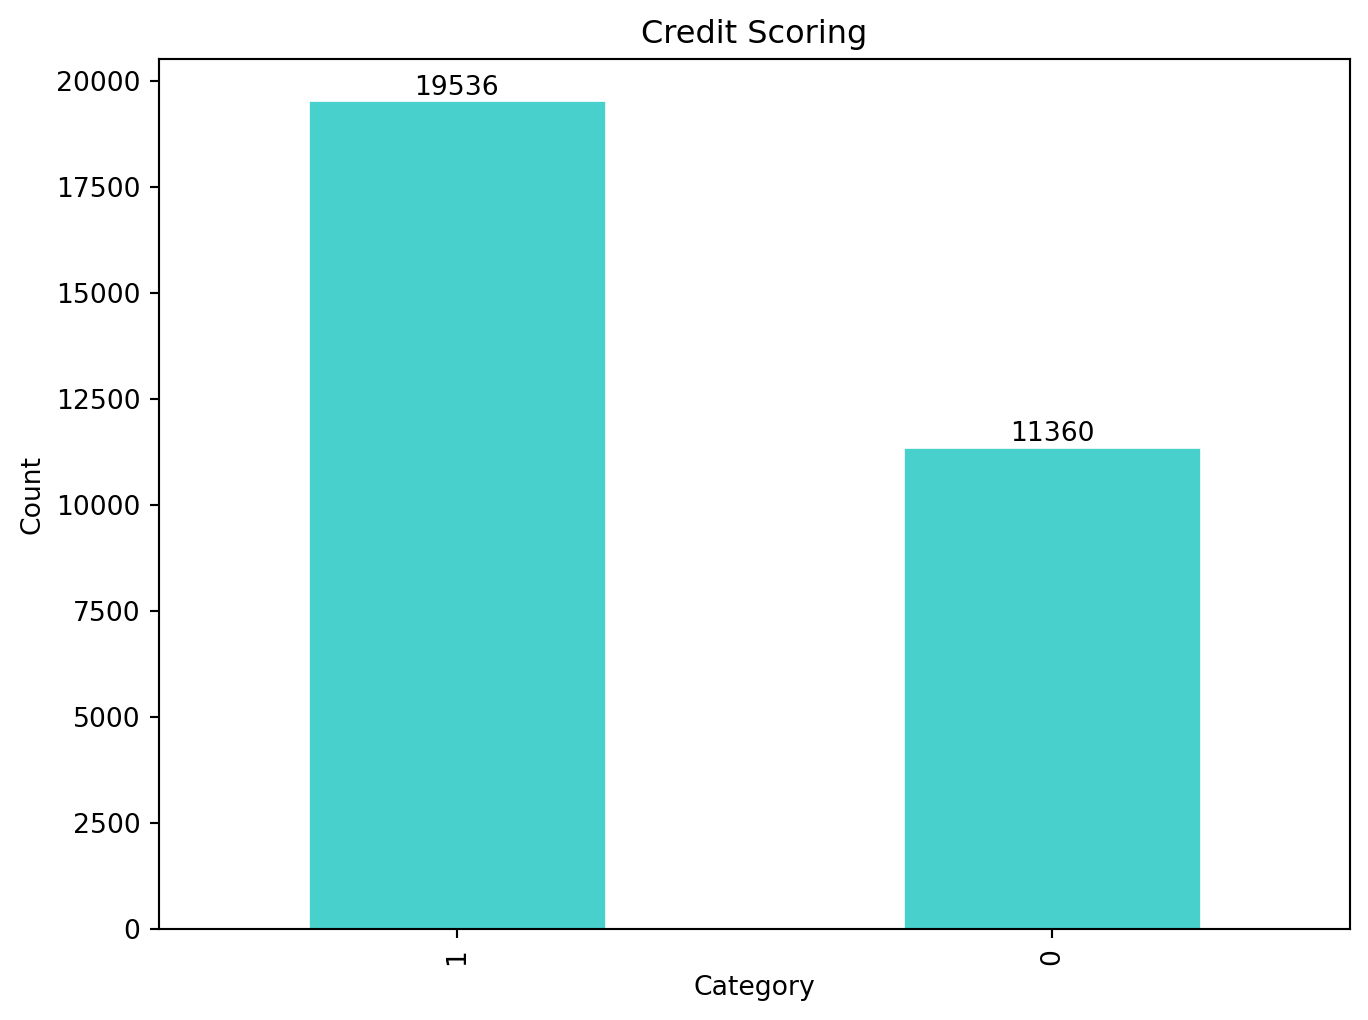
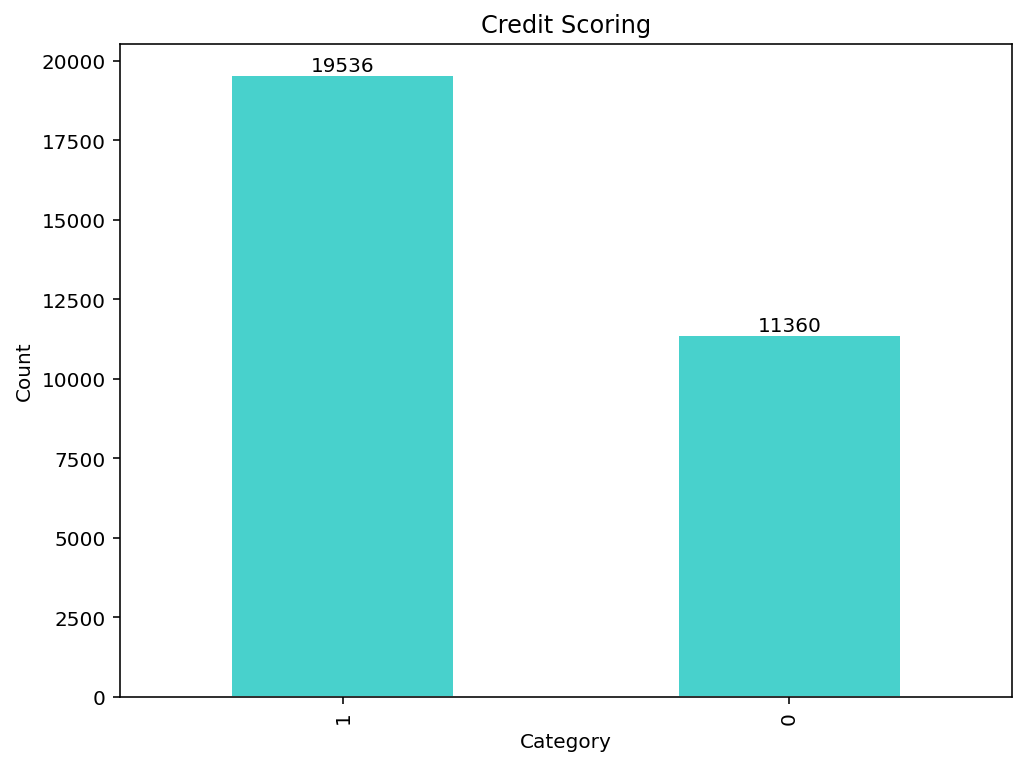
Some minor changes

diff --git a/RRproj.html b/RRproj.html
@@ -6,7 +6,7 @@
 
 <meta name="viewport" content="width=device-width, initial-scale=1.0, user-scalable=yes">
 
-<meta name="author" content="Joachim Ndhokero- 4408804 and Nomin Batbayar - 442627">
+<meta name="author" content="Joachim Ndhokero- 448004 and Nomin Batbayar - 442627">
 <meta name="dcterms.date" content="2023-06-17">
 
 <title>Credit Scoring Classification Analysis</title>
@@ -91,7 +91,7 @@ pre > code.sourceCode > span > a:first-child::before { text-decoration: underlin
       <div>
       <div class="quarto-title-meta-heading">Author</div>
       <div class="quarto-title-meta-contents">
-               <p>Joachim Ndhokero- 4408804 and Nomin Batbayar - 442627 </p>
+               <p>Joachim Ndhokero- 448004 and Nomin Batbayar - 442627 </p>
             </div>
     </div>
       
@@ -218,7 +218,7 @@ pre > code.sourceCode > span > a:first-child::before { text-decoration: underlin
 <div class="cell-output cell-output-stdout">
 <pre><code>(46826, 25)</code></pre>
 </div>
-<div class="cell-output cell-output-display" data-execution_count="34">
+<div class="cell-output cell-output-display" data-execution_count="2">
 <div>
 
 
@@ -406,7 +406,7 @@ pre > code.sourceCode > span > a:first-child::before { text-decoration: underlin
 <span id="cb5-2"><a href="#cb5-2" aria-hidden="true" tabindex="-1"></a>credit_score.isna().<span class="bu">sum</span>()</span>
 <span id="cb5-3"><a href="#cb5-3" aria-hidden="true" tabindex="-1"></a><span class="in">```</span></span></code><button title="Copy to Clipboard" class="code-copy-button"><i class="bi"></i></button></pre></div>
 </details>
-<div class="cell-output cell-output-display" data-execution_count="36">
+<div class="cell-output cell-output-display" data-execution_count="4">
 <pre><code>Customer_ID                    0
 Month                          0
 Age                            0
@@ -448,7 +448,7 @@ dtype: int64</code></pre>
 </details>
 <div class="cell-output cell-output-stdout">
 <pre><code>Number of unique customer:  8692
-Number of month:  {'May', 'August', 'June', 'April', 'March', 'July', 'January', 'February'}</code></pre>
+Number of month:  {'February', 'January', 'April', 'March', 'August', 'June', 'May', 'July'}</code></pre>
 </div>
 </div>
 <p>For example, for Customer_ID=CUS_0x2dbc 3 of the value is missing. So instead of removing them we replaced the missing values with other most occured non missing value.</p>
@@ -459,7 +459,7 @@ Number of month:  {'May', 'August', 'June', 'April', 'March', 'July', 'January',
 <span id="cb9-2"><a href="#cb9-2" aria-hidden="true" tabindex="-1"></a>credit_score[credit_score.Customer_ID<span class="op">==</span><span class="st">'CUS_0x2dbc'</span>].groupby(<span class="st">'Customer_ID'</span>)[<span class="st">'Occupation'</span>].<span class="bu">apply</span>(<span class="bu">list</span>)</span>
 <span id="cb9-3"><a href="#cb9-3" aria-hidden="true" tabindex="-1"></a><span class="in">```</span></span></code><button title="Copy to Clipboard" class="code-copy-button"><i class="bi"></i></button></pre></div>
 </details>
-<div class="cell-output cell-output-display" data-execution_count="38">
+<div class="cell-output cell-output-display" data-execution_count="6">
 <pre><code>Customer_ID
 CUS_0x2dbc    [nan, Engineer, nan, Engineer, nan, Engineer]
 Name: Occupation, dtype: object</code></pre>
@@ -472,7 +472,7 @@ Name: Occupation, dtype: object</code></pre>
 <span id="cb11-3"><a href="#cb11-3" aria-hidden="true" tabindex="-1"></a>credit_score[<span class="st">'Occupation'</span>] <span class="op">=</span> credit_score[<span class="st">'Occupation'</span>].fillna(credit_score.groupby(<span class="st">'Customer_ID'</span>)[<span class="st">'Occupation'</span>].transform(<span class="kw">lambda</span> x: x.fillna(stats.mode(x)[<span class="dv">0</span>][<span class="dv">0</span>])))</span>
 <span id="cb11-4"><a href="#cb11-4" aria-hidden="true" tabindex="-1"></a>credit_score[credit_score.Customer_ID<span class="op">==</span><span class="st">'CUS_0x2dbc'</span>].groupby(<span class="st">'Customer_ID'</span>)[<span class="st">'Occupation'</span>].<span class="bu">apply</span>(<span class="bu">list</span>)</span>
 <span id="cb11-5"><a href="#cb11-5" aria-hidden="true" tabindex="-1"></a><span class="in">```</span></span></code><button title="Copy to Clipboard" class="code-copy-button"><i class="bi"></i></button></pre></div>
-<div class="cell-output cell-output-display" data-execution_count="39">
+<div class="cell-output cell-output-display" data-execution_count="7">
 <pre><code>Customer_ID
 CUS_0x2dbc    [Engineer, Engineer, Engineer, Engineer, Engin...
 Name: Occupation, dtype: object</code></pre>
@@ -499,7 +499,7 @@ Name: Occupation, dtype: object</code></pre>
 <span id="cb14-2"><a href="#cb14-2" aria-hidden="true" tabindex="-1"></a>credit_score[credit_score.Customer_ID<span class="op">==</span><span class="st">'CUS_0x1018'</span>].groupby(<span class="st">'Customer_ID'</span>)[<span class="st">'Num_of_Delayed_Payment'</span>].<span class="bu">apply</span>(<span class="bu">list</span>)</span>
 <span id="cb14-3"><a href="#cb14-3" aria-hidden="true" tabindex="-1"></a><span class="in">```</span></span></code><button title="Copy to Clipboard" class="code-copy-button"><i class="bi"></i></button></pre></div>
 </details>
-<div class="cell-output cell-output-display" data-execution_count="41">
+<div class="cell-output cell-output-display" data-execution_count="9">
 <pre><code>Customer_ID
 CUS_0x1018    [22, 22, 22, 20, nan, 22, 22, 22]
 Name: Num_of_Delayed_Payment, dtype: object</code></pre>
@@ -512,7 +512,7 @@ Name: Num_of_Delayed_Payment, dtype: object</code></pre>
 <span id="cb16-3"><a href="#cb16-3" aria-hidden="true" tabindex="-1"></a>credit_score[<span class="st">'Num_of_Delayed_Payment'</span>] <span class="op">=</span> credit_score[<span class="st">'Num_of_Delayed_Payment'</span>].fillna(credit_score.groupby(<span class="st">'Customer_ID'</span>)[<span class="st">'Num_of_Delayed_Payment'</span>].transform(<span class="kw">lambda</span> x: x.fillna(x.astype(<span class="st">'float64'</span>).mean())))</span>
 <span id="cb16-4"><a href="#cb16-4" aria-hidden="true" tabindex="-1"></a>credit_score[credit_score.Customer_ID<span class="op">==</span><span class="st">'CUS_0x1018'</span>].groupby(<span class="st">'Customer_ID'</span>)[<span class="st">'Num_of_Delayed_Payment'</span>].<span class="bu">apply</span>(<span class="bu">list</span>)</span>
 <span id="cb16-5"><a href="#cb16-5" aria-hidden="true" tabindex="-1"></a><span class="in">```</span></span></code><button title="Copy to Clipboard" class="code-copy-button"><i class="bi"></i></button></pre></div>
-<div class="cell-output cell-output-display" data-execution_count="42">
+<div class="cell-output cell-output-display" data-execution_count="10">
 <pre><code>Customer_ID
 CUS_0x1018    [22, 22, 22, 20, 21.714285714285715, 22, 22, 22]
 Name: Num_of_Delayed_Payment, dtype: object</code></pre>
@@ -539,7 +539,7 @@ Name: Num_of_Delayed_Payment, dtype: object</code></pre>
 <span id="cb19-2"><a href="#cb19-2" aria-hidden="true" tabindex="-1"></a>credit_score.isna().<span class="bu">sum</span>()</span>
 <span id="cb19-3"><a href="#cb19-3" aria-hidden="true" tabindex="-1"></a><span class="in">```</span></span></code><button title="Copy to Clipboard" class="code-copy-button"><i class="bi"></i></button></pre></div>
 </details>
-<div class="cell-output cell-output-display" data-execution_count="44">
+<div class="cell-output cell-output-display" data-execution_count="12">
 <pre><code>Customer_ID                  0
 Month                        0
 Age                          0
@@ -624,7 +624,7 @@ dtype: int64</code></pre>
 <span id="cb22-6"><a href="#cb22-6" aria-hidden="true" tabindex="-1"></a><span class="in">```</span></span></code><button title="Copy to Clipboard" class="code-copy-button"><i class="bi"></i></button></pre></div>
 </details>
 <div class="cell-output cell-output-display">
-<p><img src="RRproj_files/figure-html/cell-15-output-1.png" width="826" height="803"></p>
+<p><img src="RRproj_files/figure-html/cell-15-output-1.png" class="img-fluid"></p>
 </div>
 </div>
 <p>To identify the outliers in the data set we will use 1st and 3rd quantiles.</p>
@@ -655,7 +655,7 @@ dtype: int64</code></pre>
 <pre><code>Outlier band of Age : -3.0 ; 69.0</code></pre>
 </div>
 <div class="cell-output cell-output-display">
-<p><img src="RRproj_files/figure-html/cell-17-output-2.png" width="583" height="404"></p>
+<p><img src="RRproj_files/figure-html/cell-17-output-2.png" class="img-fluid"></p>
 </div>
 </div>
 <p>And we fixed the other variables with outliers using the same method.</p>
@@ -765,7 +765,7 @@ Outlier band of Monthly_Balance : -21.159846598012678 ; 744.2067826197436</code>
 <span id="cb29-33"><a href="#cb29-33" aria-hidden="true" tabindex="-1"></a><span class="in">```</span></span></code><button title="Copy to Clipboard" class="code-copy-button"><i class="bi"></i></button></pre></div>
 </details>
 <div class="cell-output cell-output-display">
-<p><img src="RRproj_files/figure-html/cell-20-output-1.png" width="1142" height="1142"></p>
+<p><img src="RRproj_files/figure-html/cell-20-output-1.png" class="img-fluid"></p>
 </div>
 </div>
 </section>
@@ -856,7 +856,7 @@ Outlier band of Monthly_Balance : -21.159846598012678 ; 744.2067826197436</code>
 <div class="cell-output cell-output-stdout">
 <pre><code>(44137, 34)</code></pre>
 </div>
-<div class="cell-output cell-output-display" data-execution_count="54">
+<div class="cell-output cell-output-display" data-execution_count="22">
 <div>
 
 
@@ -1057,7 +1057,7 @@ Training data set:
 <span id="cb36-14"><a href="#cb36-14" aria-hidden="true" tabindex="-1"></a><span class="in">```</span></span></code><button title="Copy to Clipboard" class="code-copy-button"><i class="bi"></i></button></pre></div>
 </details>
 <div class="cell-output cell-output-display">
-<p><img src="RRproj_files/figure-html/cell-25-output-1.png" width="684" height="510"></p>
+<p><img src="RRproj_files/figure-html/cell-25-output-1.png" class="img-fluid"></p>
 </div>
 </div>
 <p>For features of the model, we considered Correlation matrix and Anova to select most correlated and associated variables.</p>
@@ -1096,8 +1096,8 @@ debt_consolidation          0.193754
 home_equity                 0.191103
 student                     0.188193
 not_specified               0.178540
-Spent                       0.144263
-Payment                     0.132471
+Spent                       0.143776
+Payment                     0.130595
 Total_EMI_per_month         0.114227
 Month                      -0.023726
 Credit_Utilization_Ratio   -0.060603
@@ -1138,7 +1138,7 @@ Name: Credit_Score, dtype: float64</code></pre>
 <span id="cb39-19"><a href="#cb39-19" aria-hidden="true" tabindex="-1"></a>anova.sort_values(by<span class="op">=</span><span class="st">"Chisq"</span>,ascending<span class="op">=</span><span class="va">False</span>)</span>
 <span id="cb39-20"><a href="#cb39-20" aria-hidden="true" tabindex="-1"></a><span class="in">```</span></span></code><button title="Copy to Clipboard" class="code-copy-button"><i class="bi"></i></button></pre></div>
 </details>
-<div class="cell-output cell-output-display" data-execution_count="58">
+<div class="cell-output cell-output-display" data-execution_count="26">
 <div>
 
 
@@ -1270,9 +1270,9 @@ Name: Credit_Score, dtype: float64</code></pre>
 <pre><code>HyperParameter Search Space: 
  {'n_estimators': [10, 20], 'max_features': ['sqrt', 'log2'], 'max_depth': [3, 6], 'criterion': ['gini', 'entropy']}
 Optimal Hyperparameter Choosen: 
- {'criterion': 'gini', 'max_depth': 6, 'max_features': 'sqrt', 'n_estimators': 20}
+ {'criterion': 'entropy', 'max_depth': 6, 'max_features': 'sqrt', 'n_estimators': 20}
 Accuracy of Test Dataset from Random Forest Model: 
- 0.8691186466278982</code></pre>
+ 0.8698738765954233</code></pre>
 </div>
 </div>
 </div>

diff --git a/RRproj.md b/RRproj.md
@@ -1,6 +1,6 @@
 ---
 title: "Credit Scoring Classification Analysis"
-author: "Joachim Ndhokero- 4408804 and Nomin Batbayar - 442627"
+author: "Joachim Ndhokero- 448004 and Nomin Batbayar - 442627"
 date: today
 format: 
   html:
@@ -116,7 +116,7 @@ credit_score.head()
 ```
 :::
 
-::: {.cell-output .cell-output-display execution_count=34}
+::: {.cell-output .cell-output-display execution_count=2}
 
 ```{=html}
 <div>
@@ -324,7 +324,7 @@ credit_score.isna().sum()
 
 ````
 
-::: {.cell-output .cell-output-display execution_count=36}
+::: {.cell-output .cell-output-display execution_count=4}
 ```
 Customer_ID                    0
 Month                          0
@@ -373,7 +373,7 @@ print("Number of month: ", num_month)
 ::: {.cell-output .cell-output-stdout}
 ```
 Number of unique customer:  8692
-Number of month:  {'May', 'August', 'June', 'April', 'March', 'July', 'January', 'February'}
+Number of month:  {'February', 'January', 'April', 'March', 'August', 'June', 'May', 'July'}
 ```
 :::
 :::
@@ -389,7 +389,7 @@ credit_score[credit_score.Customer_ID=='CUS_0x2dbc'].groupby('Customer_ID')['Occ
 
 ````
 
-::: {.cell-output .cell-output-display execution_count=38}
+::: {.cell-output .cell-output-display execution_count=6}
 ```
 Customer_ID
 CUS_0x2dbc    [nan, Engineer, nan, Engineer, nan, Engineer]
@@ -411,7 +411,7 @@ credit_score[credit_score.Customer_ID=='CUS_0x2dbc'].groupby('Customer_ID')['Occ
 
 ````
 
-::: {.cell-output .cell-output-display execution_count=39}
+::: {.cell-output .cell-output-display execution_count=7}
 ```
 Customer_ID
 CUS_0x2dbc    [Engineer, Engineer, Engineer, Engineer, Engin...
@@ -447,7 +447,7 @@ credit_score[credit_score.Customer_ID=='CUS_0x1018'].groupby('Customer_ID')['Num
 
 ````
 
-::: {.cell-output .cell-output-display execution_count=41}
+::: {.cell-output .cell-output-display execution_count=9}
 ```
 Customer_ID
 CUS_0x1018    [22, 22, 22, 20, nan, 22, 22, 22]
@@ -469,7 +469,7 @@ credit_score[credit_score.Customer_ID=='CUS_0x1018'].groupby('Customer_ID')['Num
 
 ````
 
-::: {.cell-output .cell-output-display execution_count=42}
+::: {.cell-output .cell-output-display execution_count=10}
 ```
 Customer_ID
 CUS_0x1018    [22, 22, 22, 20, 21.714285714285715, 22, 22, 22]
@@ -505,7 +505,7 @@ credit_score.isna().sum()
 
 ````
 
-::: {.cell-output .cell-output-display execution_count=44}
+::: {.cell-output .cell-output-display execution_count=12}
 ```
 Customer_ID                  0
 Month                        0
@@ -595,7 +595,7 @@ plt.show()
 ````
 
 ::: {.cell-output .cell-output-display}
-![](RRproj_files/figure-html/cell-15-output-1.png){width=826 height=803}
+![](RRproj_files/figure-html/cell-15-output-1.png){}
 :::
 :::
 
@@ -642,7 +642,7 @@ Outlier band of Age : -3.0 ; 69.0
 :::
 
 ::: {.cell-output .cell-output-display}
-![](RRproj_files/figure-html/cell-17-output-2.png){width=583 height=404}
+![](RRproj_files/figure-html/cell-17-output-2.png){}
 :::
 :::
 
@@ -760,7 +760,7 @@ plt.show()
 ````
 
 ::: {.cell-output .cell-output-display}
-![](RRproj_files/figure-html/cell-20-output-1.png){width=1142 height=1142}
+![](RRproj_files/figure-html/cell-20-output-1.png){}
 :::
 :::
 
@@ -862,7 +862,7 @@ credit_score.head()
 ```
 :::
 
-::: {.cell-output .cell-output-display execution_count=54}
+::: {.cell-output .cell-output-display execution_count=22}
 
 ```{=html}
 <div>
@@ -1084,7 +1084,7 @@ plt.show()
 ````
 
 ::: {.cell-output .cell-output-display}
-![](RRproj_files/figure-html/cell-25-output-1.png){width=684 height=510}
+![](RRproj_files/figure-html/cell-25-output-1.png){}
 :::
 :::
 
@@ -1128,8 +1128,8 @@ debt_consolidation          0.193754
 home_equity                 0.191103
 student                     0.188193
 not_specified               0.178540
-Spent                       0.144263
-Payment                     0.132471
+Spent                       0.143776
+Payment                     0.130595
 Total_EMI_per_month         0.114227
 Month                      -0.023726
 Credit_Utilization_Ratio   -0.060603
@@ -1173,7 +1173,7 @@ anova.sort_values(by="Chisq",ascending=False)
 
 ````
 
-::: {.cell-output .cell-output-display execution_count=58}
+::: {.cell-output .cell-output-display execution_count=26}
 
 ```{=html}
 <div>
@@ -1331,9 +1331,9 @@ print("Accuracy of Test Dataset from Random Forest Model: \n", accuracy_score(yt
 HyperParameter Search Space: 
  {'n_estimators': [10, 20], 'max_features': ['sqrt', 'log2'], 'max_depth': [3, 6], 'criterion': ['gini', 'entropy']}
 Optimal Hyperparameter Choosen: 
- {'criterion': 'gini', 'max_depth': 6, 'max_features': 'sqrt', 'n_estimators': 20}
+ {'criterion': 'entropy', 'max_depth': 6, 'max_features': 'sqrt', 'n_estimators': 20}
 Accuracy of Test Dataset from Random Forest Model: 
- 0.8691186466278982
+ 0.8698738765954233
 ```
 :::
 :::

diff --git a/README.md b/README.md
@@ -17,6 +17,10 @@ Lastly we employed Random Forest, Adaboost, Neural Network models. We specified 
 We run wrote the codes in Visual Studio Code with extentions of Quarto, Python. 
 The project requires the following dependencies:
 
+- Visual Studio Code 1.79
+- [Quarto 1.3.361](https://quarto.org/docs/download/) 
+- Quarto extention 1.87.3
+- Python extention 2023.10.1
 - Python 3.10.1 
 - Pandas 1.3.5
 - NumPy  1.22.1
@@ -27,5 +31,5 @@ The project requires the following dependencies:
 
 ### Authors
 This project was developed by:
-Author 1: Joachim Ndhokero  /4408804 j.ndhokero@student.uw.edu.pl/ 
+Author 1: Joachim Ndhokero  /448004 j.ndhokero@student.uw.edu.pl/ 
 Author 2: Nomin Batbayar    /442627  n.batbayar@student.uw.edu.pl/  
